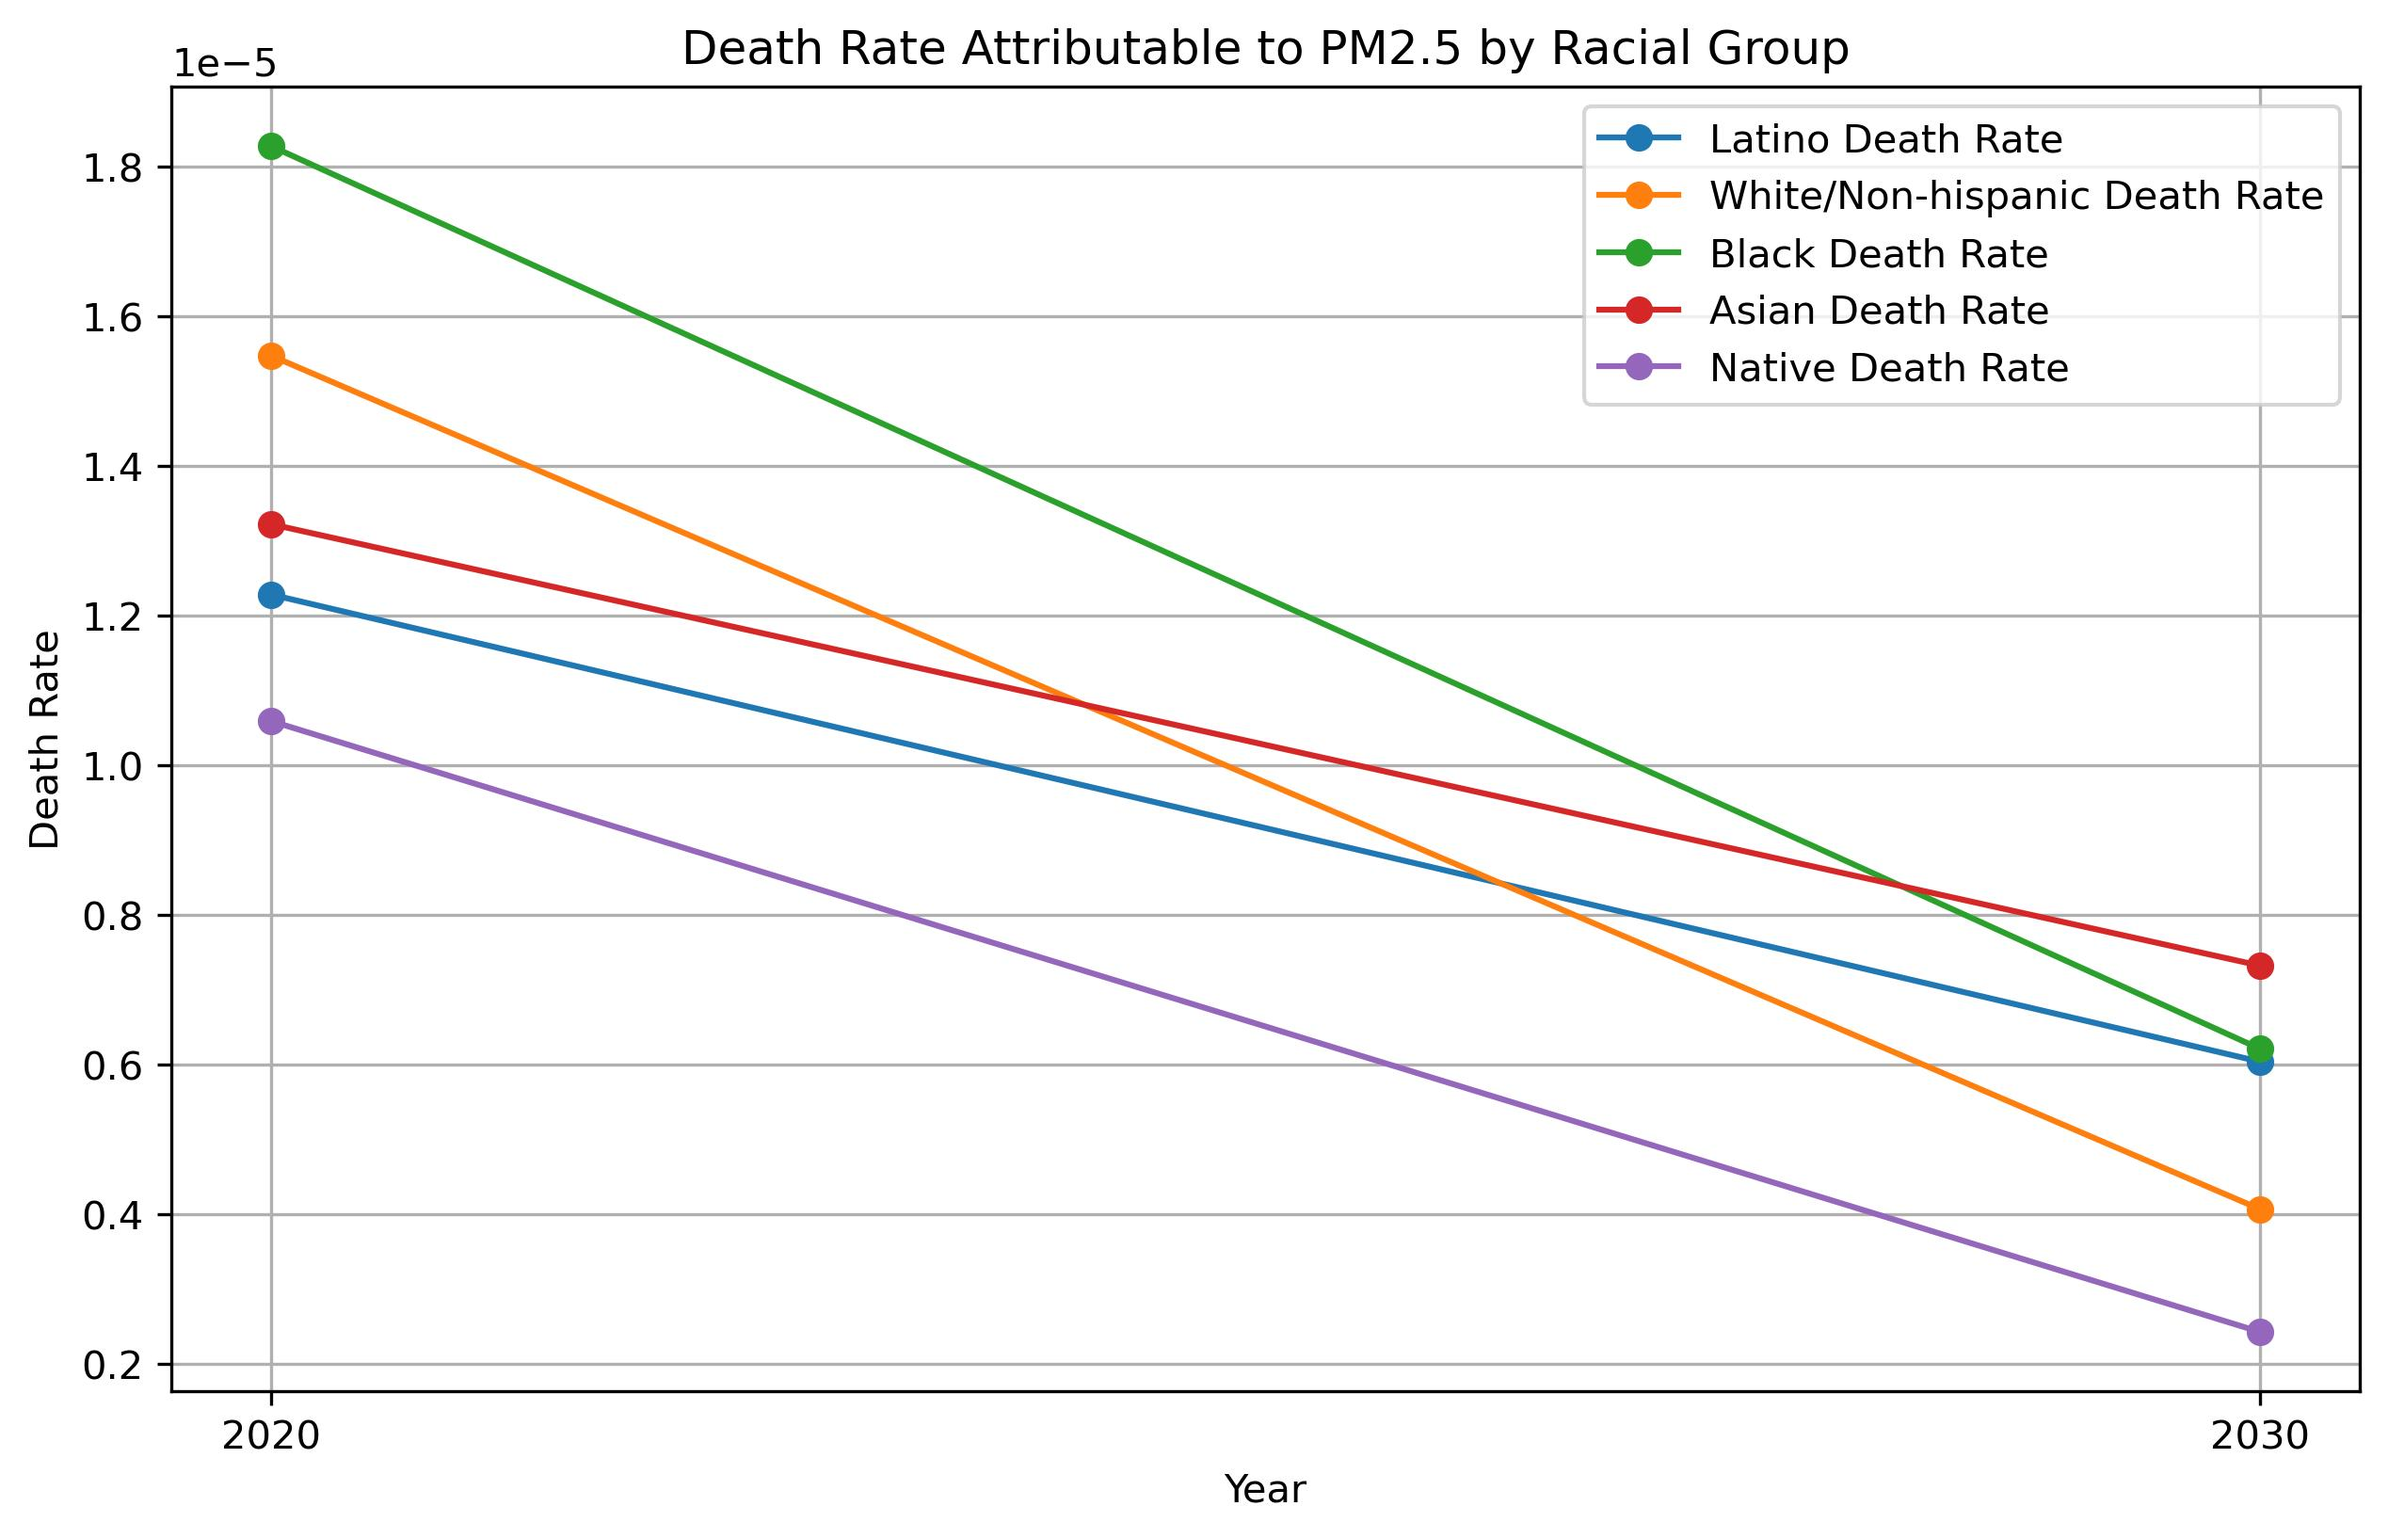
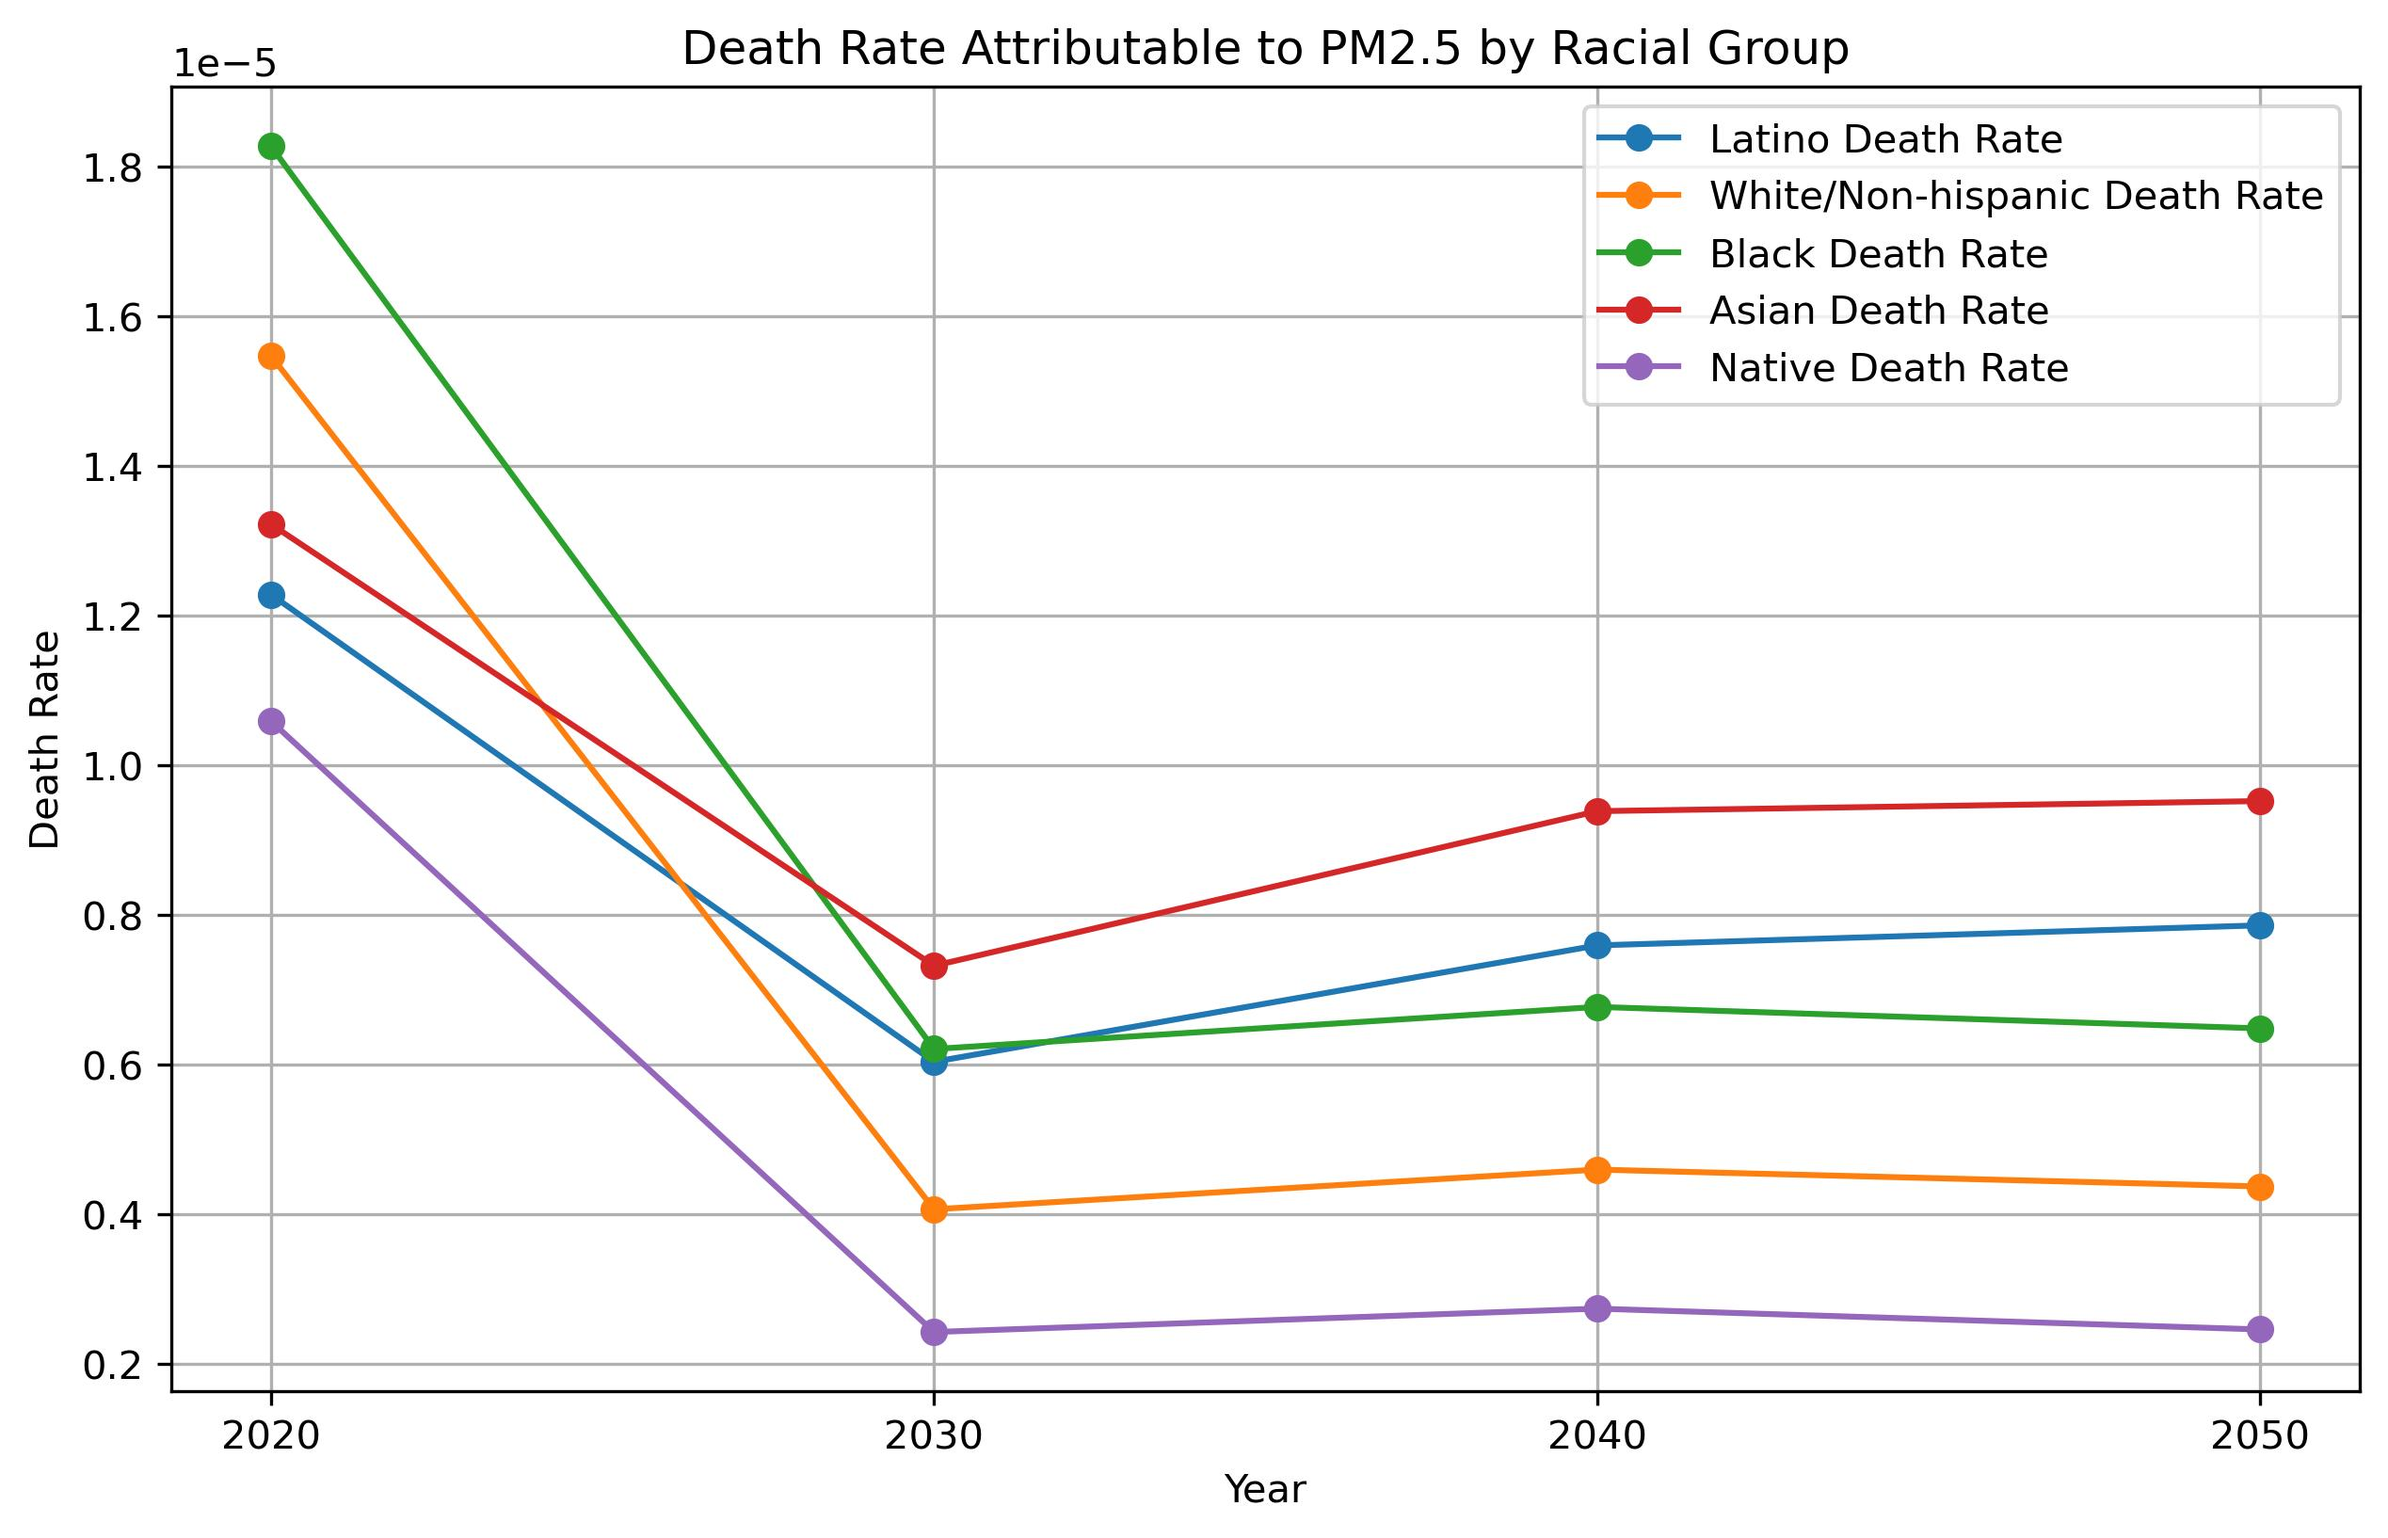
new figures and switchings some scripts to .py

diff --git a/InMap_SR_GenConstraints.py b/InMap_SR_GenConstraints.py
@@ -1,0 +1,129 @@
+#%%
+globals().clear()
+
+
+from __future__ import (absolute_import, division, print_function, unicode_literals)
+from builtins import * 
+from io import BytesIO, TextIOWrapper
+from zipfile import ZipFile
+import urllib.request
+import csv
+from shapely.geometry import Point
+import geopandas as gpd
+
+import time
+import numpy as np
+import zarr
+from shapely.geometry import Polygon, Point
+import pandas as pd
+import geopandas as gpd
+import s3fs
+import os
+
+
+os.chdir('C:/Users/lbeatty/Documents/Lauren_MIP_Contribution/')
+
+#%%
+def rect(i, w, s, e, n):
+    x = [w[i], e[i], e[i], w[i], w[i]]
+    y = [s[i], s[i], n[i], n[i], s[i]]
+    return x, y
+
+def poly(sr):
+    ret = []
+    w = sr["W"][:]
+    s = sr["S"][:]
+    e = sr["E"][:]
+    n = sr["N"][:]
+    for i in range(52411):
+        x, y = rect(i, w, s, e, n)
+        ret.append(Polygon([[x[0],y[0]],[x[1],y[1]],[x[2],y[2]],
+                            [x[3],y[3]],[x[4],y[4]]]))
+    return ret
+
+rl = 's3://inmap-model/isrm_v1.2.1.zarr/'
+url = 's3://inmap-model/isrm_v1.2.1.zarr/'
+
+fs = s3fs.S3FileSystem(anon=True, client_kwargs=dict(region_name='us-east-2'))
+sr = zarr.open(s3fs.S3Map(url, s3=fs, check=False), mode="r")
+
+p = poly(sr)
+
+#%%
+years = ['2030', '2040', '2050']
+cluster_exposure_coefs = pd.DataFrame()
+
+for year in years:
+    emis = gpd.read_file('InMap/MIP_Emissions/marginal_emissions_'+year+'.shp')
+    fact = 28766.639
+
+    df = pd.DataFrame({'Location': range(52411)})
+    p = poly(sr)
+    gdf = gpd.GeoDataFrame(df, geometry=p)
+
+    # join the emis dataframe into the grid dataframe
+    emis.crs = "+proj=longlat"
+    gdf.crs = "+proj=lcc +lat_1=33.000000 +lat_2=45.000000 +lat_0=40.000000 +lon_0=-97.000000 +x_0=0 +y_0=0 +a=6370997.000000 +b=6370997.000000 +to_meter=1"
+    emis = emis.to_crs(gdf.crs)
+    join_right_df = gdf.sjoin(emis, how="right")
+    print("Finished joining the dataframes.")
+
+    index = join_right_df.Location.tolist()
+
+    ppl = np.unique(join_right_df.Location.tolist())
+
+    num = range(0,len(ppl))
+
+    dictionary = dict(zip(ppl, num))
+
+
+    #pull out relevant matrix elements
+    SOA = sr['SOA'].get_orthogonal_selection(([0], ppl, slice(None)))
+    print("SOA data is allocated.")
+    pNO3 = sr['pNO3'].get_orthogonal_selection(([0], ppl, slice(None)))
+    print("pNO3 data is allocated.")
+    pNH4 = sr['pNH4'].get_orthogonal_selection(([0], ppl, slice(None)))
+    print("pNH4 data is allocated.")
+    pSO4 = sr['pSO4'].get_orthogonal_selection(([0], ppl, slice(None)))
+    print("pSO4 data is allocated.")
+    PM25 = sr['PrimaryPM25'].get_orthogonal_selection(([0], ppl, slice(None)))
+    print("PrimaryPM25 data is allocated.")
+
+    exposure_data = pd.DataFrame()
+    BlackPop = sr['Black'][0:52411]
+    AsianPop = sr['Asian'][0:52411]
+    NativePop = sr['Native'][0:52411]
+    LatinoPop = sr['Latino'][0:52411]
+    WhiteNoLatPop = sr['WhiteNoLat'][0:52411]
+
+    pollution_dict = dict(zip(['VOC', 'NOx', 'NH3', 'SOx', 'PM2_5'], [SOA, pNO3, pNH4, pSO4, PM25]))
+        
+    for pollutant in ['VOC', 'NOx', 'NH3', 'SOx', 'PM2_5']:
+            for i in range(len(index)):
+                exposure = pollution_dict[pollutant][0, dictionary[index[i]], :]*emis[pollutant][i]*fact
+                group=1
+                for column in [BlackPop, AsianPop, NativePop, LatinoPop, WhiteNoLatPop]:
+                    sumpop = sum(column)
+                    weighted_exposure = sum(exposure*column)/sumpop
+
+                    data = {'Group':[group], 'Pollutant':pollutant, 'Exposure': [weighted_exposure], 'Cluster': [emis.Resource[i]]}
+                    df = pd.DataFrame(data)
+                    exposure_data = pd.concat([exposure_data, df])
+                    if i % 5000 == 0:
+                        print("Iteration:", i)
+                        print(pollutant)
+                    group=group+1
+    
+    # collapse output
+    exposure_data.loc[exposure_data['Group'] == 1, 'Race'] = 'Black'
+    exposure_data.loc[exposure_data['Group'] == 2, 'Race'] = 'Asian'
+    exposure_data.loc[exposure_data['Group'] == 3, 'Race'] = 'Native'
+    exposure_data.loc[exposure_data['Group'] == 4, 'Race'] = 'Latino'
+    exposure_data.loc[exposure_data['Group'] == 5, 'Race'] = 'WhiteNoLat'
+
+    exposure_data_collapsed = exposure_data.groupby(['Race', 'Cluster','Pollutant']).agg({'Exposure':'sum'}).reset_index()
+    exposure_data_collapsed['year']=year
+
+    cluster_exposure_coefs = pd.concat([cluster_exposure_coefs, exposure_data_collapsed])
+
+cluster_exposure_coefs.to_csv('MIP_AirPollution/marginal_gen_exposure_coefs.csv')

diff --git a/Plot_Output_ISRM.py b/Plot_Output_ISRM.py
@@ -20,8 +20,8 @@ model='GenX'
 ## Read in all data
 emissions = pd.DataFrame()
 scenarios = ['26z-short-base-50', '26z-short-current-policies', '26z-short-base-200', '26z-short-no-ccs']
-scenarios=['26z-short-base-50', '26z-short-current-policies', '26z-short-base-200']
-years = ['2020', '2030']
+years = ['2020', '2030', '2040', '2050']
+
 for scenario in scenarios:
     print('reading: '+scenario)
     for year in years:
